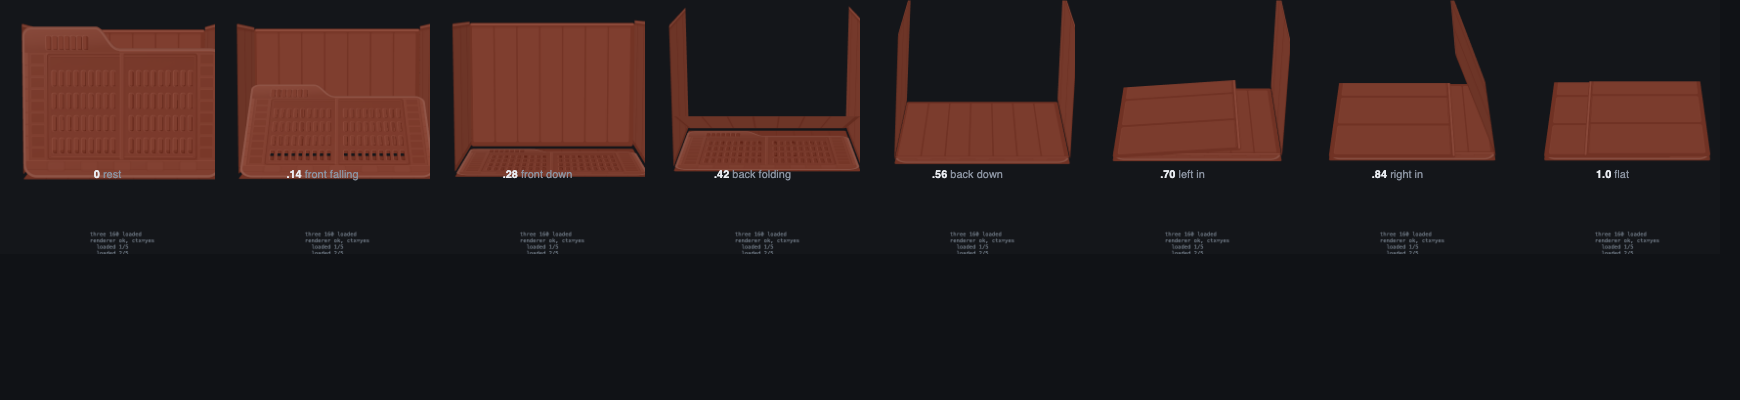
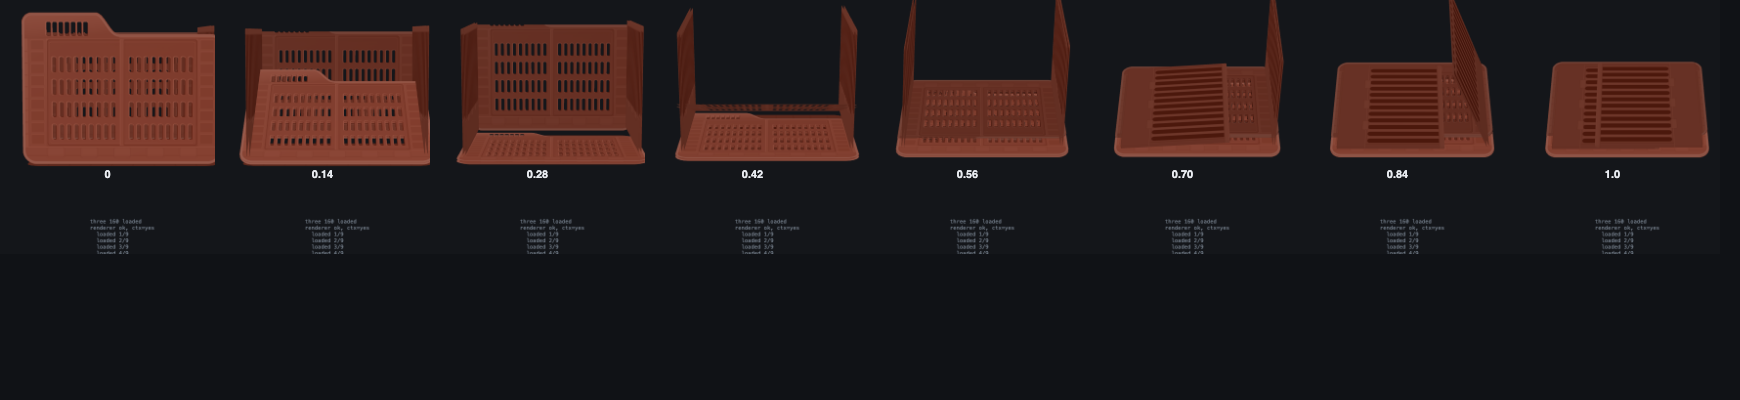
Verify the fold frame by frame on the shipped build
The last corner grid was rendered with the BoxGeometry version that was
then replaced, so its findings were stale. Re-run on what is on disk.

Two faults caught:
- the interior went almost black -- 0x9a9a9a times Lambert falloff at
  grazing angles reads as a void, not shade. Now 0xcfcfcf, ambient 1.05.
- side walls sat near edge-on for most of the fold at 37 degrees of
  elevation, so their artwork was never legible. Now 49.

All eight instants now read correctly, rest through flat.

diff --git a/docs/explorations/fold-three.html b/docs/explorations/fold-three.html
@@ -50,7 +50,7 @@ diag("renderer ok, ctx=" + (renderer.getContext() ? "yes" : "NO"));
 // Low FOV from far away reads as near-orthographic, so the resting frame is
 // the icon rather than a photograph of it.
 const camera = new THREE.PerspectiveCamera(17, 1, 10, 12000);
-scene.add(new THREE.AmbientLight(0xffffff, 0.92));
+scene.add(new THREE.AmbientLight(0xffffff, 1.05));
 const key = new THREE.DirectionalLight(0xffffff, 0.45);
 key.position.set(-500, 900, 1200); scene.add(key);
 
@@ -80,7 +80,7 @@ function mat(url, shade, flipX){
   // genuinely see-through at every angle. This is the thing CSS could not do.
   return new THREE.MeshLambertMaterial({
     map:t, transparent:true, alphaTest:0.5, side:THREE.DoubleSide,
-    color: shade ? 0x9a9a9a : 0xffffff,
+    color: shade ? 0xcfcfcf : 0xffffff,
     // Folded walls end up almost coplanar with the floor and each other.
     // Without a depth bias the fragments tie and flicker frame to frame --
     // that is the jitter. polygonOffset breaks the tie in the depth test.
@@ -166,7 +166,7 @@ function apply(t){
   // animation happened in a static frame.
   const c = ease(t);
   const dist = 3400 + 500*c;
-  const el = (5 + 32*c) * Math.PI/180;
+  const el = (5 + 44*c) * Math.PI/180;
   camera.position.set(0, H*0.42 + Math.sin(el)*dist, Math.cos(el)*dist + D/2);
   camera.lookAt(0, H*0.40*(1-c), c*(-D*0.10));
   renderer.render(scene, camera);

diff --git a/docs/explorations/fold-notes.md b/docs/explorations/fold-notes.md
@@ -386,3 +386,29 @@ thickness at every angle except dead-on.
 Checked at rest, 0.20, 0.45 and 0.75. Bottom corners are clean at all four —
 the inset holds now that the front and back wrap the sides. Side walls show
 their moulded edge at 0.20 and 0.45 rather than reading as paper.
+
+### Frame-by-frame, verified against the shipped build
+
+The previous corner grid was rendered with the BoxGeometry version that was
+then replaced, so its findings were stale. Re-run against what is actually on
+disk, all eight instants:
+
+| t | reads as |
+|---|---|
+| 0 | the icon, tab left, clean silhouette |
+| 0.14 | front tipping back, crate appearing behind it |
+| 0.28 | open crate, back wall standing, sides at the edges |
+| 0.42 | back folding forward, perforated floor visible |
+| 0.56 | back down, both sides still standing |
+| 0.70 | left side folding in |
+| 0.84 | right side folding in |
+| 1.0 | flat, layered slab |
+
+Two faults it caught and fixed:
+
+**The interior went almost black.** `0x9a9a9a` times Lambert falloff at
+grazing angles reads as a void rather than shade. Lifted to `0xcfcfcf` with
+ambient at 1.05.
+
+**The side walls sat near edge-on for most of the fold.** Camera elevation
+topped out at 37 degrees, so their artwork was never legible. Now 49.
